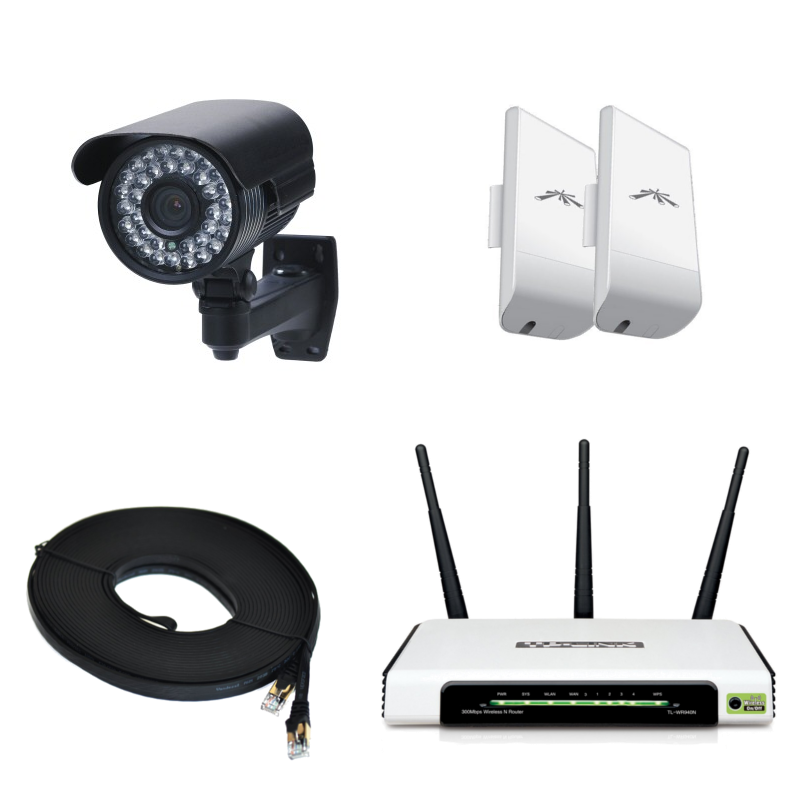
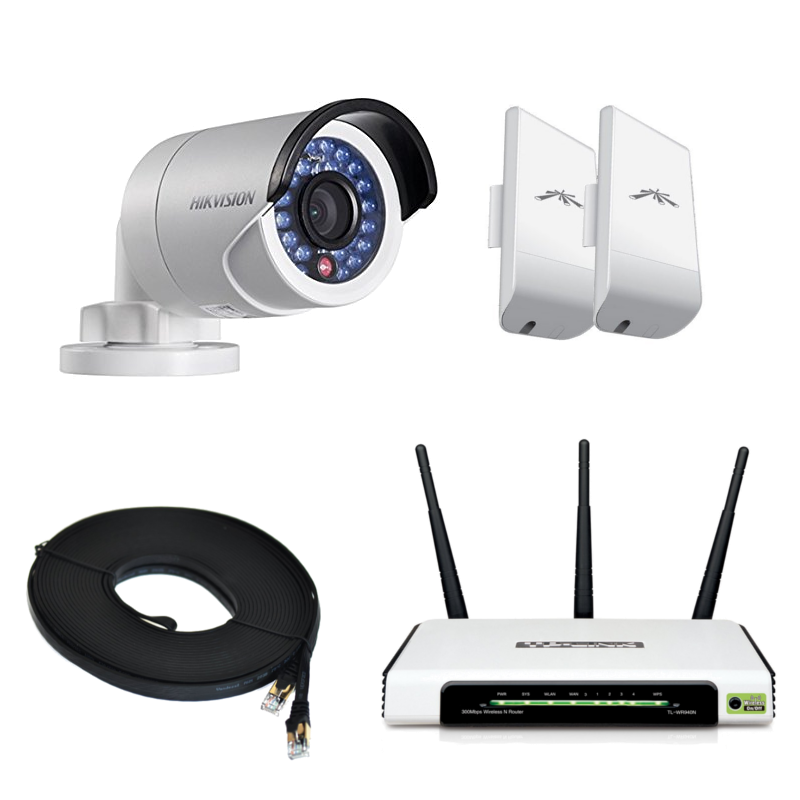
more infor to the bullet product

Changed region(s): [[0.0625, 0.125, 0.5625, 0.4688]]

diff --git a/products/ip-bullet-calving-camera-system.md b/products/ip-bullet-calving-camera-system.md
@@ -6,18 +6,19 @@ subTitle: Calving Camera System with IP Bullet Cameras
 image: ip-bullet-calving-camera-system.png
 price: €275.00
 rating: 4.1
-text-color: gray
 description: This IP Calving Camera System comprises of bullet cameras, for high resolution, crisp and clear video, and directional antennas for long range Wi-Fi connectivity. This system is ideal when there is a long distance between the shed and the house.
 
 images:
-   - title: IP Bullet Camera
-     name: ip-bullet-camera.jpg
+   - title: Hikvision IP Bullet Camera
+     name: hikvision-ip-bullet-camera.png
    - title: Directional Antennas for long range Wi-Fi connectivity
      name: two-directional-antennas.jpg
    - title: Ethernet cabled to connect the equipement together
      name: 20-ethernet-cable.jpg
-   - title: POE connector for powering the antennas and cameras
-     name: poe-connector.jpg
+   - title: POE network switch for powering the antenna and cameras
+     name: poe-network-switch.jpg
+   - title: POE Injector for powering the antenna (house side)
+     name: poe-injector.jpg
    - title: Router to connect the system to PC or Laptop
      name: router.jpg
 ---
@@ -32,8 +33,7 @@ If you want to get more information about how to set this type of system see the
 
 
 ###Connection Diagram
-Bellow is a connection diagram how the system is setup and connected together. Here we have two IP bullet cameras connected to, and powered by, a POE connector using ethernet cables. The POE connector is also connected to, and powers, a directional antenna. It uses POE connector with multiple post to simpifly the system so that the cameras and directional antenna will not need a separate power source. The directional antenna will make a Wi-Fi connection to the other directional antenna. These antennas will need a clear line of sight to maximise there range and connection quality. The maximum range of this is system 5km.
-The directional antenna, at the house or office, is powered by another POE connector and is connected to a router with ethernet cables. From there, a Laptop or PC can connect to the router which will all it to connect to the IP cameras and view the video remotely.
+Bellow is a connection diagram how the system is setup and connected together.
 
 <figure>
   <img src="{{site.baseurl}}/img/connection-diagrams/bullet-ip-camera-antenna-connection-diagram.png" alt="IP Calving Camera System with Bullet Cameras">
@@ -41,23 +41,35 @@ The directional antenna, at the house or office, is powered by another POE conne
 </figure>
 <br>
 
-If the distance between the house and the shed is not that long, for example less than 100 meters, then the directional antenna can be left out of this system and connect the router to the POE connector, on the shed side, with a direct ethernet cable.
+Here we have two IP bullet cameras connected to, and powered by, a POE network switch using ethernet cables. The POE network switch also connects, and powers, a directional antenna. 
 
-This system can be easily expanded. To add more cameras just plug them into the POE connector. As long as there are spare ports on the POE connecter then more cameras can be added. 
+The POE network switch simpifies the system by powering the cameras and the antenna through the ethernet cables. Without it, the other devices will need a separate power sources. If the system, you intend to build, will only ever have one camera then there is no need for the POE network switch, the camera can be connected directly to the antenna with an ethernet cable.
+
+The directional antenna will make a Wi-Fi connection to the other directional antenna. These antennas will need a clear line of sight to maximise there range and connection quality. The maximum range of this is system 5km.
+
+The directional antenna, at the house or office, is powered by POE injector and is connected to a router with ethernet cables. From there, a Laptop or PC can connect to the router which will all it to connect to the IP cameras and view the video remotely.
+
+If the distance between the house and the shed is not that long, for example less than 100 meters, then the directional antenna can be left out of this system and connect the router to the POE network switch, on the shed side, with a direct ethernet cable.
+
+This system can be easily expanded. To add more cameras just plug them into the POE network switch. As long as there are spare ports on the POE network switch then more cameras can be added. So, if you might need more cameras in the future its a good idea to have plenty of spare POE ports on the network switch.
 
 ###Equipment
 
 - IP Bullet Camera(s)
 - 2 Wireless Directional Antennas
-- 2 POE Connectors
-- 2 20 meter Ethernet Cables
+- 1 Four port POE Network Switch
+- 1 POE Injector
+- 3 20 meter Ethernet Cables
 - 1 Router
 
 
-<iframe style="width:120px;height:240px;" marginwidth="0" marginheight="0" scrolling="no" frameborder="0" src="//ws-na.amazon-adsystem.com/widgets/q?ServiceVersion=20070822&OneJS=1&Operation=GetAdHtml&MarketPlace=US&source=ac&ref=qf_sp_asin_til&ad_type=product_link&tracking_id=jhollerano-20&marketplace=amazon&region=US&placement=B008O5BIWW&asins=B008O5BIWW&linkId=X7V3PF5IHPXV7H4D&show_border=true&link_opens_in_new_window=true&price_color=BF3E3E&title_color=759BBD&bg_color=F9F3F3">
+<iframe style="width:120px;height:240px;" marginwidth="0" marginheight="0" scrolling="no" frameborder="0" src="//ws-na.amazon-adsystem.com/widgets/q?ServiceVersion=20070822&OneJS=1&Operation=GetAdHtml&MarketPlace=US&source=ac&ref=qf_sp_asin_til&ad_type=product_link&tracking_id=jhollerano-20&marketplace=amazon&region=US&placement=B00G7GMEOG&asins=B00G7GMEOG&linkId=NT2X7TEULJVMUTEZ&show_border=true&link_opens_in_new_window=true&price_color=BF3E3E&title_color=759BBD&bg_color=F9F3F3">
 </iframe>
 
 <iframe style="width:120px;height:240px;" marginwidth="0" marginheight="0" scrolling="no" frameborder="0" src="//ws-na.amazon-adsystem.com/widgets/q?ServiceVersion=20070822&OneJS=1&Operation=GetAdHtml&MarketPlace=US&source=ac&ref=qf_sp_asin_til&ad_type=product_link&tracking_id=jhollerano-20&marketplace=amazon&region=US&placement=B004EGI3CI&asins=B004EGI3CI&linkId=NACNL6576ZSEOJ4Y&show_border=true&link_opens_in_new_window=true&price_color=BF3E3E&title_color=759BBD&bg_color=F9F3F3" >
+</iframe>
+
+<iframe style="width:120px;height:240px;" marginwidth="0" marginheight="0" scrolling="no" frameborder="0" src="//ws-na.amazon-adsystem.com/widgets/q?ServiceVersion=20070822&OneJS=1&Operation=GetAdHtml&MarketPlace=US&source=ac&ref=qf_sp_asin_til&ad_type=product_link&tracking_id=jhollerano-20&marketplace=amazon&region=US&placement=B003CFATT2&asins=B003CFATT2&linkId=C7M4LQB66XVR37KR&show_border=true&link_opens_in_new_window=true&price_color=BF3E3E&title_color=759BBD&bg_color=F9F3F3">
 </iframe>
 
 <iframe style="width:120px;height:240px;" marginwidth="0" marginheight="0" scrolling="no" frameborder="0" src="//ws-na.amazon-adsystem.com/widgets/q?ServiceVersion=20070822&OneJS=1&Operation=GetAdHtml&MarketPlace=US&source=ac&ref=qf_sp_asin_til&ad_type=product_link&tracking_id=jhollerano-20&marketplace=amazon&region=US&placement=B00QELK40K&asins=B00QELK40K&linkId=KYMLRVF6NPZZLD7F&show_border=true&link_opens_in_new_window=true&price_color=BF3E3E&title_color=759BBD&bg_color=F9F3F3">
